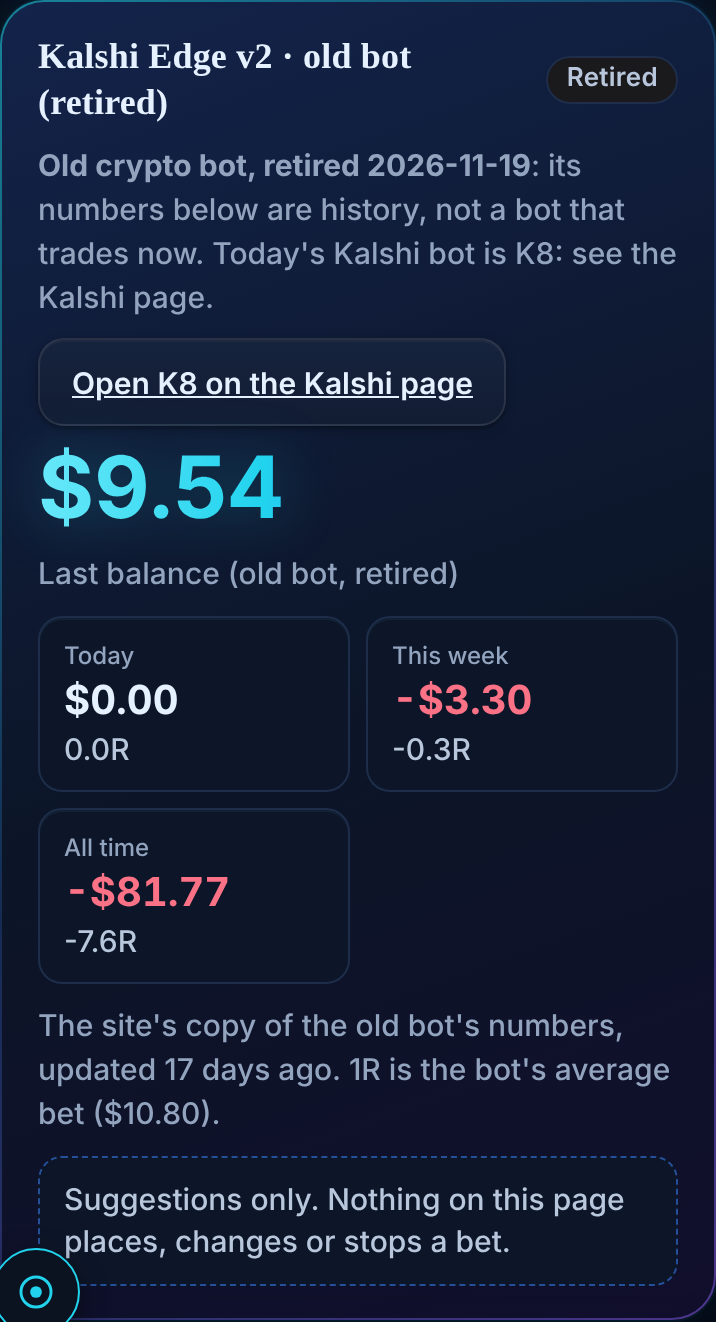
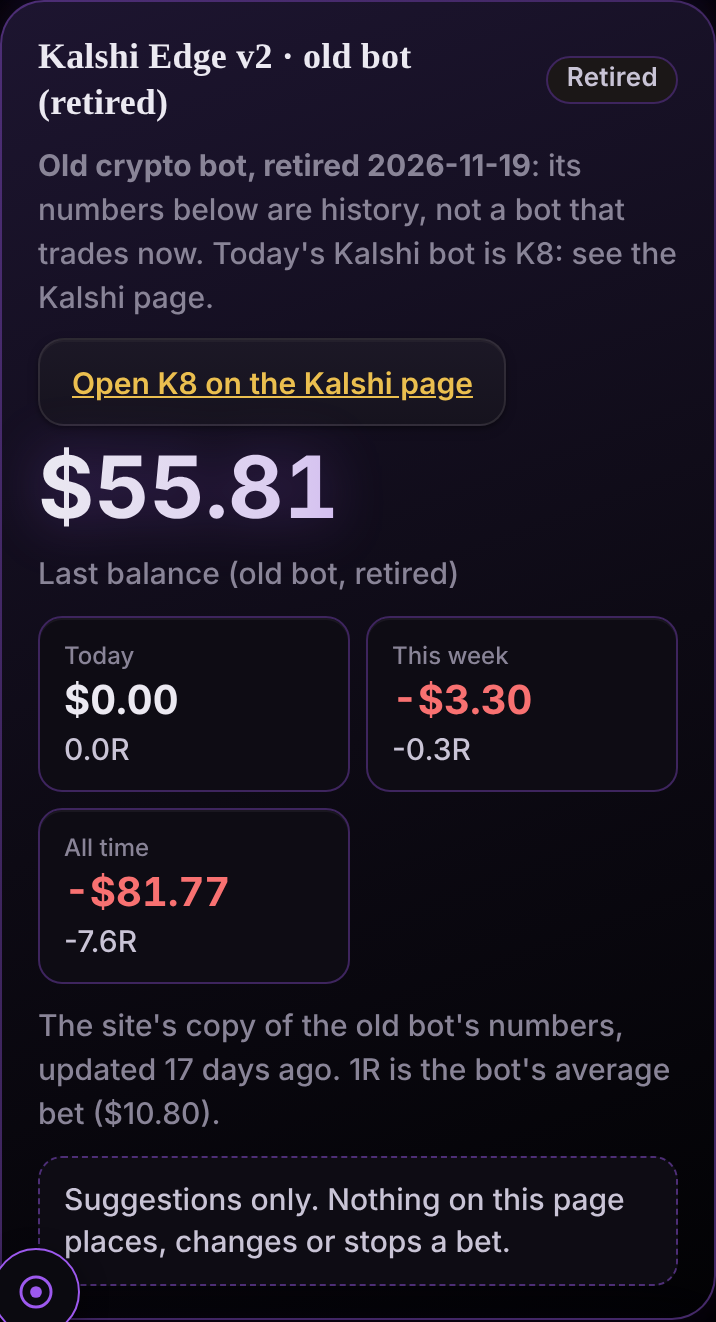
Dionysus FX: OLYMPUS NIGHT look (owner palette: black base, #16131e -> #020204 cards, violet edges #3e255e/#4d2e76 + #9d59ee light, lavender highlights, small gold CTA/active accents, mint win / red loss; no cyan), 3D grid floor + press tilt, hero sheen (motion-ok only), nqfx.js after load + idle th
Claude-Session: https://claude.ai/code/session_01EwJ4kRDzE4hwQDbzL1hJ5v

diff --git a/tools/web_public/dionysus/dionysus.css b/tools/web_public/dionysus/dionysus.css
@@ -104,81 +104,82 @@ main#app header.top .brand p.sub, main#app p#status, main#app #status.note { fon
 main#app .tile span { font-size: .8125rem; }
 main#app .tile span { font-size: .9375rem; }
 
-/* ================================================================================================ TERMINAL look (day-kalshi FX 2026-11-20, owner: "it needs some 3D, some effects")
-   Dionysus only (this sheet is loaded by this page alone; agora.css / olympus.css untouched): NO GOLD. Navy base #070b14 / #0b1220, electric cyan #22d3ee
-   + blue #3b82f6 light, violet #8b5cf6 accents; green #22c55e only for a win, red #f43f5e only for a loss. Cards: a thin cyan -> blue -> violet gradient
-   border + a soft cyan / blue box-shadow; a 3D tilt on press; a still perspective grid under the page. Motion (the hero sheen) only under
+/* ================================================================================================ TERMINAL look, "OLYMPUS NIGHT" (day-kalshi FX 2026-11-20, owner: "it needs some 3D, some effects")
+   Dionysus only (this sheet is loaded by this page alone; agora.css / olympus.css untouched). Black base #000; cards #16131e -> #020204 with a thin
+   violet gradient edge (#3e255e / #462a6a / #4d2e76) and a soft violet #9d59ee light; lavender #dacbf0 highlights; bright gold #f1c14b ONLY for small
+   active / call-to-action / live accents (text gold #ebbf4f); mint #77db89 only for a win, red #ef4444 only for a loss; text #ebe9f1, muted #898497.
+   3D: a still perspective grid under the page and a press tilt on cards. Motion (the hero sheen, today's win pulse) only under
    prefers-reduced-motion: no-preference; the effects themselves (number roll, win sparks) come from olympus/nqfx.js after the first paint. */
 html:root[data-theme="agora"] {
-  --ag-night: #070b14; --ag-panel: #0b1220; --ag-raise: #101a2e; --ag-line: #1e2d4a; --ag-s0: #070b14; --ag-s1: #0b1220; --ag-s2: #0e1729; --ag-s3: #121d33; --ag-s4: #16233d;
-  --ag-line-soft: rgba(103, 232, 249, .08); --ag-line-gold: rgba(34, 211, 238, .38);
-  --ag-text: #e6f1ff; --ag-soft: #b9c7dd; --ag-muted: #93a4bf;
-  --ag-gold: #22d3ee; --ag-gold-hi: #67e8f9; --ag-gold-rgb: 34, 211, 238; --ag-bronze: #3b82f6; --ag-aegean: #3b82f6; --ag-aegean-text: #7dd3fc; --ag-aegean-rgb: 59, 130, 246;
-  --ag-olive: #22c55e; --ag-olive-text: #4ade80; --ag-olive-rgb: 34, 197, 94; --ag-terra: #f43f5e; --ag-terra-text: #fb7185; --ag-terra-rgb: 244, 63, 94;
-  --ag-sun: #a78bfa; --ag-sun-rgb: 139, 92, 246; --ag-on-gold: #070b14;
-  --ag-shadow: 0 8px 24px rgba(2, 6, 18, .55);
-  --dx-cyan: #22d3ee; --dx-blue: #3b82f6; --dx-violet: #8b5cf6; --dx-win: #22c55e; --dx-loss: #f43f5e; --dx-tile: #0d1628;
-  --dx-edge: linear-gradient(135deg, rgba(34, 211, 238, .6), rgba(59, 130, 246, .28) 45%, rgba(139, 92, 246, .55));
-  --dx-light: 0 0 0 1px rgba(34, 211, 238, .05), 0 10px 30px rgba(2, 6, 18, .6), 0 0 22px rgba(34, 211, 238, .10), 0 0 40px rgba(59, 130, 246, .08);
-  --oly-accent: #22d3ee; --oly-accent-rgb: 34, 211, 238;
+  --ag-night: #000000; --ag-panel: #0b0a10; --ag-raise: #16131e; --ag-line: #3e255e; --ag-s0: #000000; --ag-s1: #0b0a10; --ag-s2: #100e16; --ag-s3: #16131e; --ag-s4: #1c1826;
+  --ag-line-soft: rgba(218, 203, 240, .08); --ag-line-gold: rgba(157, 89, 238, .45);
+  --ag-text: #ebe9f1; --ag-soft: #c9c4d6; --ag-muted: #898497;
+  --ag-gold: #9d59ee; --ag-gold-hi: #dacbf0; --ag-gold-rgb: 157, 89, 238; --ag-bronze: #4d2e76; --ag-aegean: #9d59ee; --ag-aegean-text: #dacbf0; --ag-aegean-rgb: 157, 89, 238;
+  --ag-olive: #77db89; --ag-olive-text: #77db89; --ag-olive-rgb: 119, 219, 137; --ag-terra: #ef4444; --ag-terra-text: #f87171; --ag-terra-rgb: 239, 68, 68;
+  --ag-sun: #ebbf4f; --ag-sun-rgb: 241, 193, 75; --ag-on-gold: #000000;
+  --ag-shadow: 0 8px 24px rgba(0, 0, 0, .6);
+  --dx-violet: #9d59ee; --dx-lav: #dacbf0; --dx-gold: #f1c14b; --dx-gold-t: #ebbf4f; --dx-win: #77db89; --dx-loss: #ef4444; --dx-tile: #0e0c14;
+  --dx-card: linear-gradient(180deg, #16131e, #020204);
+  --dx-edge: linear-gradient(135deg, #4d2e76, #3e255e 45%, #462a6a);
+  --dx-light: 0 10px 30px rgba(0, 0, 0, .7), 0 0 22px rgba(157, 89, 238, .14), 0 0 44px rgba(157, 89, 238, .07);
+  --oly-accent: #9d59ee; --oly-accent-rgb: 157, 89, 238;
 }
-html { background: #070b14; }
-html[data-theme="agora"] body { background: radial-gradient(120% 60% at 50% -12%, #13254a 0%, #0b1220 38%, #070b14 72%) fixed, #070b14; }
-/* the 3D floor: a still perspective grid of faint cyan lines fading into the dark (one fixed layer, painted once, never animated) */
+html { background: #000000; }
+html[data-theme="agora"] body { background: radial-gradient(120% 55% at 50% -12%, #1a1228 0%, #07050b 42%, #000000 72%) fixed, #000000; }
+/* the 3D floor: a still perspective grid of faint violet lines fading into the black (one fixed layer, painted once, never animated) */
 body::before { content: ""; position: fixed; left: -50%; right: -50%; bottom: 0; height: 62vh; z-index: 0; pointer-events: none;
-  background: linear-gradient(rgba(34, 211, 238, .10) 1px, transparent 1px) 0 0 / 56px 56px, linear-gradient(90deg, rgba(59, 130, 246, .10) 1px, transparent 1px) 0 0 / 56px 56px;
+  background: linear-gradient(rgba(157, 89, 238, .13) 1px, transparent 1px) 0 0 / 56px 56px, linear-gradient(90deg, rgba(157, 89, 238, .10) 1px, transparent 1px) 0 0 / 56px 56px;
   transform: perspective(420px) rotateX(62deg); transform-origin: 50% 100%;
   -webkit-mask-image: linear-gradient(to top, rgba(0, 0, 0, .9), transparent 78%); mask-image: linear-gradient(to top, rgba(0, 0, 0, .9), transparent 78%); }
 html[data-oly-lite="1"] body::before { display: none; }
-/* cards: navy glass, a thin gradient edge (padding-box / border-box layers, no extra node), cyan / blue light */
-main#app .ag-card.card { border: 1px solid transparent; background: linear-gradient(180deg, #101a2e, #0b1220) padding-box, var(--dx-edge) border-box; box-shadow: var(--dx-light);
+/* cards: the night gradient, a thin violet edge (padding-box / border-box layers, no extra node), a soft violet light */
+main#app .ag-card.card { border: 1px solid transparent; background: var(--dx-card) padding-box, var(--dx-edge) border-box; box-shadow: var(--dx-light);
   transition: transform .18s ease-out, box-shadow .18s ease-out; }
-main#app .ag-card.card:active { transform: perspective(900px) rotateX(2.2deg) translateZ(-6px); box-shadow: var(--dx-light), 0 0 30px rgba(34, 211, 238, .16); }
-main#app .ag-card.card.k8 { background: linear-gradient(180deg, #0f1c33, #0a1222) padding-box, linear-gradient(135deg, rgba(34, 211, 238, .8), rgba(59, 130, 246, .4) 50%, rgba(139, 92, 246, .7)) border-box;
-  box-shadow: var(--dx-light), 0 0 34px rgba(34, 211, 238, .14); }
-main#app .ag-card.card.hero { overflow: hidden; background: linear-gradient(160deg, #13234a 0%, #0c1527 55%, #110f2c 100%) padding-box, var(--dx-edge) border-box; }
-#guardCard[data-level="bad"] { background: linear-gradient(180deg, #101a2e, #0b1220) padding-box, linear-gradient(135deg, rgba(244, 63, 94, .6), rgba(139, 92, 246, .4)) border-box !important; }
-#guardCard[data-level="warn"] { background: linear-gradient(180deg, #101a2e, #0b1220) padding-box, linear-gradient(135deg, rgba(139, 92, 246, .7), rgba(59, 130, 246, .4)) border-box !important; }
-#guardCard[data-level="ok"] { background: linear-gradient(180deg, #101a2e, #0b1220) padding-box, linear-gradient(135deg, rgba(34, 197, 94, .55), rgba(34, 211, 238, .4)) border-box !important; }
-/* the hero sheen: a soft diagonal band of light; it sweeps only when motion is welcome (transform only: compositor, no layout) */
+main#app .ag-card.card:active { transform: perspective(900px) rotateX(2.2deg) translateZ(-6px); box-shadow: var(--dx-light), 0 0 30px rgba(157, 89, 238, .22); }
+main#app .ag-card.card.k8 { background: var(--dx-card) padding-box, linear-gradient(135deg, #9d59ee, #4d2e76 50%, #462a6a) border-box; box-shadow: var(--dx-light), 0 0 34px rgba(157, 89, 238, .2); }
+main#app .ag-card.card.hero { overflow: hidden; background: linear-gradient(160deg, #1d1530 0%, #0d0a14 55%, #020204 100%) padding-box, var(--dx-edge) border-box; }
+#guardCard[data-level="bad"] { background: var(--dx-card) padding-box, linear-gradient(135deg, rgba(239, 68, 68, .6), #3e255e) border-box !important; }
+#guardCard[data-level="warn"] { background: var(--dx-card) padding-box, linear-gradient(135deg, #9d59ee, #3e255e) border-box !important; }
+#guardCard[data-level="ok"] { background: var(--dx-card) padding-box, linear-gradient(135deg, rgba(119, 219, 137, .55), #3e255e) border-box !important; }
+/* the hero sheen: a soft diagonal band of lavender light; it sweeps only when motion is welcome (transform only: compositor, no layout) */
 main#app .card.hero::after { content: ""; position: absolute; inset: -40% auto -40% -60%; width: 45%; pointer-events: none; z-index: 0;
-  background: linear-gradient(100deg, transparent, rgba(103, 232, 249, .09) 40%, rgba(139, 92, 246, .10) 60%, transparent); transform: translateX(0) skewX(-12deg); }
+  background: linear-gradient(100deg, transparent, rgba(218, 203, 240, .07) 40%, rgba(157, 89, 238, .10) 60%, transparent); transform: translateX(0) skewX(-12deg); }
 main#app .card.hero > * { position: relative; z-index: 1; }
 @media (prefers-reduced-motion: no-preference) {
   main#app .card.hero::after { animation: dx-sheen 7s ease-in-out 1.2s infinite; }
   @keyframes dx-sheen { 0% { transform: translateX(0) skewX(-12deg); } 55%, 100% { transform: translateX(420%) skewX(-12deg); } }
   main#app .k8wl i.w.today { animation: dx-pulse 2.4s ease-in-out infinite; }
-  @keyframes dx-pulse { 0%, 100% { box-shadow: 0 0 0 0 rgba(34, 197, 94, .0); } 50% { box-shadow: 0 0 10px 2px rgba(34, 197, 94, .45); } }
+  @keyframes dx-pulse { 0%, 100% { box-shadow: 0 0 0 0 rgba(119, 219, 137, 0); } 50% { box-shadow: 0 0 10px 2px rgba(119, 219, 137, .45); } }
 }
 @media (prefers-reduced-motion: reduce) { main#app .ag-card.card, main#app .ag-card.card:active { transition: none; transform: none; } }
 html[data-oly-lite="1"] main#app .card.hero::after { display: none; }
-/* the numbers: cyan -> blue ink, tabular, a little light */
-main#app .big { background: linear-gradient(90deg, #67e8f9, #22d3ee 35%, #3b82f6 80%, #8b5cf6); -webkit-background-clip: text; background-clip: text; color: transparent; font-variant-numeric: tabular-nums;
-  filter: drop-shadow(0 0 14px rgba(34, 211, 238, .28)); }
-.ag-title { color: #e6f1ff; } .ag-title::after { background: linear-gradient(90deg, #22d3ee, #3b82f6 60%, rgba(139, 92, 246, 0)); width: 64px; }
-.card h2 { color: #e6f1ff; letter-spacing: .01em; }
-.brand img { box-shadow: 0 0 0 1px rgba(34, 211, 238, .35), 0 0 18px rgba(34, 211, 238, .25); }
-/* surfaces that were warm brown: navy tiles with a faint cyan edge */
-.tile, .plain li, .banner, .pill { background: var(--dx-tile); border-color: #1e2d4a; }
-.tile { box-shadow: inset 0 1px 0 rgba(103, 232, 249, .06); }
+/* the numbers: lavender -> violet ink, tabular, a little light */
+main#app .big { background: linear-gradient(90deg, #ebe9f1, #dacbf0 40%, #9d59ee); -webkit-background-clip: text; background-clip: text; color: transparent; font-variant-numeric: tabular-nums;
+  filter: drop-shadow(0 0 14px rgba(157, 89, 238, .35)); }
+.ag-title { color: #ebe9f1; } .ag-title::after { background: linear-gradient(90deg, #f1c14b, #9d59ee 45%, rgba(157, 89, 238, 0)); width: 64px; }
+.card h2 { color: #ebe9f1; letter-spacing: .01em; }
+.brand img { box-shadow: 0 0 0 1px #4d2e76, 0 0 18px rgba(157, 89, 238, .3); }
+/* surfaces that were warm brown: night tiles with a faint violet edge */
+.tile, .plain li, .banner, .pill { background: var(--dx-tile); border-color: #3e255e; }
+.tile { box-shadow: inset 0 1px 0 rgba(218, 203, 240, .06); }
 .dots li { background: none; }
-.banner { border: 1px dashed rgba(59, 130, 246, .55); }
-.tag.demo { color: #070b14; background: #8b5cf6; }
-.pill.ok { color: #4ade80; border-color: rgba(34, 197, 94, .45); } .pill.bad { color: #fb7185; border-color: rgba(244, 63, 94, .45); }
-.pill.warn { color: #c4b5fd; border-color: rgba(139, 92, 246, .55); } .pill.info { color: #7dd3fc; border-color: rgba(59, 130, 246, .5); }
-.btn { background: #0f1a30; border-color: rgba(34, 211, 238, .35); color: #e6f1ff; box-shadow: 0 0 14px rgba(34, 211, 238, .08); }
-.btn[aria-pressed="true"], .btn.on, .ag-chip[aria-pressed="true"] { border-color: #22d3ee; color: #67e8f9; background: #0c2236; box-shadow: 0 0 16px rgba(34, 211, 238, .22); }
-:focus-visible { outline-color: #22d3ee; }
-/* K8: the W / L chips are little 3D keys (top light, bottom shade); today's win glows green */
-.k8wl i { color: #070b14; background: linear-gradient(180deg, #fb7185, #e11d48); box-shadow: inset 0 1px 0 rgba(255, 255, 255, .25), 0 2px 0 #7f1d3a; }
-.k8wl i.w { background: linear-gradient(180deg, #4ade80, #16a34a); box-shadow: inset 0 1px 0 rgba(255, 255, 255, .3), 0 2px 0 #14532d; }
-.k8leg { border-top-color: rgba(34, 211, 238, .12); }
+.banner { border: 1px dashed #4d2e76; }
+.tag.demo { color: #000000; background: #f1c14b; }
+.pill.ok { color: #77db89; border-color: rgba(119, 219, 137, .45); } .pill.bad { color: #f87171; border-color: rgba(239, 68, 68, .45); }
+.pill.warn { color: #ebbf4f; border-color: rgba(241, 193, 75, .45); } .pill.info { color: #dacbf0; border-color: #4d2e76; }
+.btn { background: #120f19; border-color: #462a6a; color: #ebe9f1; box-shadow: 0 0 14px rgba(157, 89, 238, .1); }
+.lnk .btn { border-color: rgba(241, 193, 75, .55); color: #ebbf4f; }   /* the one call to action per card: a small gold accent */
+.btn[aria-pressed="true"], .btn.on, .ag-chip[aria-pressed="true"] { border-color: #f1c14b; color: #ebbf4f; background: #1a1424; box-shadow: 0 0 16px rgba(157, 89, 238, .25); }
+:focus-visible { outline-color: #9d59ee; }
+/* K8: the W / L chips are little 3D keys (top light, bottom shade); today's win glows mint */
+.k8wl i { color: #000000; background: linear-gradient(180deg, #f87171, #dc2626); box-shadow: inset 0 1px 0 rgba(255, 255, 255, .25), 0 2px 0 #7f1d1d; }
+.k8wl i.w { background: linear-gradient(180deg, #9be8a8, #77db89 55%, #4fb866); box-shadow: inset 0 1px 0 rgba(255, 255, 255, .35), 0 2px 0 #2f6b3b; }
+.k8leg { border-top-color: rgba(157, 89, 238, .2); }
 .k8pool b { display: inline-block; min-width: 3.4ch; text-align: right; font-variant-numeric: tabular-nums; }
-.k8pool b.ok { color: #4ade80; } .k8pool b.watch { color: #c4b5fd; } .k8pool b.off { color: #fb7185; }
-.ftab tr.k8 td { color: #67e8f9; } .ftab th, .ftab td { border-bottom-color: #1e2d4a; }
-.sblock.watch h3 { color: #c4b5fd; }
-/* the shared header's "Go to" button and the page icon in the same navy / cyan (this page only) */
-html[data-theme="agora"] .gn-go { background: rgba(11, 18, 32, .86); border-color: rgba(34, 211, 238, .35); }
-.brand img { filter: hue-rotate(180deg) saturate(1.2); }
+.k8pool b.ok { color: #77db89; } .k8pool b.watch { color: #ebbf4f; } .k8pool b.off { color: #f87171; }
+.ftab tr.k8 td { color: #ebbf4f; } .ftab th, .ftab td { border-bottom-color: #3e255e; }
+.sblock.watch h3 { color: #ebbf4f; }
+/* the shared header's "Go to" button and the page icon in the same night / violet (this page only) */
+html[data-theme="agora"] .gn-go { background: rgba(10, 8, 14, .88); border-color: #462a6a; }
 /* found on the way (2026-11-20): framed in Jarvis, agora.css's ask-button rule (body.oly-has-ask #app: 72 px) beat the 176 px seat, so the last links sat under the orb */
 html.framed body.oly-has-ask main#app { padding-bottom: calc(176px + var(--sb)); }

diff --git a/tools/web_public/dionysus/dionysus.js b/tools/web_public/dionysus/dionysus.js
@@ -189,12 +189,12 @@ async function boot() {
   fxLater();
 }
 // ------------------------------------------------------------------------------------------------ FX (day-kalshi 2026-11-20, owner: "it needs some 3D, some effects")
-// olympus/nqfx.js (the NQ effects kit) is added only AFTER the first paint: after load + idle, so the page paints exactly as before. Terminal colours
-// (no gold), the balance and K8's pool numbers roll up (the real text is already written and comes back when the roll ends), and a K8 leg whose last
+// olympus/nqfx.js (the NQ effects kit) is added only AFTER the first paint: after load + idle, so the page paints exactly as before. OLYMPUS NIGHT colours
+// (black, violet), the balance and K8's pool numbers roll up (the real text is already written and comes back when the roll ends), and a K8 leg whose last
 // result is a win from today gets the green sparks once per page view. Reduced motion / FX off: the kit shows the final state still. No kit = nothing.
 const FX_SRC = '../olympus/nqfx.js?v=n4';
-const FX_COLORS = { base: '#070b14', cyan: '#22d3ee', cyanHi: '#67e8f9', blue: '#3b82f6', violet: '#8b5cf6', win: '#22c55e', loss: '#f43f5e', steel: '#9aa4b2' };
-const FX = { started: false, won: false, loaded: null };
+const FX_COLORS = { base: '#000000', cyan: '#9d59ee', cyanHi: '#dacbf0', blue: '#4d2e76', violet: '#9d59ee', win: '#77db89', loss: '#ef4444' };   // OLYMPUS NIGHT (owner 2026-11-20)
+const FX = { started: false, won: false, loaded: null, done: false, busyUntil: 0 };   // done + busyUntil: the test hook waits for the rolls to land
 function fxScript() {
   if (FX.loaded) return FX.loaded;
   FX.loaded = new Promise((res) => {
@@ -210,17 +210,18 @@ async function runFx() {
   try { if (!(await NQ.ready())) return; } catch (_) { return; }
   try { NQ.theme(FX_COLORS); } catch (_) { /* default palette */ }
   // a number rolls once, when it first comes into view (an off-screen roll would only sit half-way: the kit's loop sleeps off screen)
-  const go = (el, to) => { const t = el.textContent; try { NQ.roll(el, { to, duration: 1.1 }); } catch (_) { el.textContent = t; } };
+  const go = (el, to) => { const t = el.textContent; FX.busyUntil = Math.max(FX.busyUntil, performance.now() + 1600); try { NQ.roll(el, { to, duration: 1.1 }); } catch (_) { el.textContent = t; } };
   const io = typeof IntersectionObserver === 'function' ? new IntersectionObserver((es) => { for (const e of es) if (e.isIntersecting) { io.unobserve(e.target); go(e.target, +e.target.dataset.to); } }, { threshold: 0.9 }) : null;
   const roll = (el, to) => { if (!el || !Number.isFinite(to)) return; if (io) { el.dataset.to = String(to); io.observe(el); } else go(el, to); };
   if (S.book && !$('heroCard').hidden) roll($('bal'), S.book.balance > 0 ? S.book.balance : NaN);
   for (const b of $('k8Pool').querySelectorAll('b')) { const n = parseFloat(b.textContent); if (Number.isFinite(n)) roll(b, n); }
   const leg = $('k8Legs').querySelector('li[data-win="today"]');
   if (leg && !FX.won) { FX.won = true; try { NQ.win(leg, { usd: +leg.dataset.usd || 0, bigAt: 1e9, text: 'K8 won today, 1 contract' }); } catch (_) { /* no sparks */ } }
+  await new Promise((r) => requestAnimationFrame(() => requestAnimationFrame(r))); FX.done = true;
 }
 function fxLater() {                        // after load + idle: never on the first paint
   const go = () => { const idle = window.requestIdleCallback || ((f) => setTimeout(f, 300)); idle(() => { runFx(); }, { timeout: 2500 }); };
   if (document.readyState === 'complete') go(); else window.addEventListener('load', go, { once: true });
 }
-window.DIONYSUS = { S, C, ready: () => S.ready, render, fx: () => FX };
+window.DIONYSUS = { S, C, ready: () => S.ready, render, fx: () => FX, settled: () => !FX.started || (FX.done && performance.now() > FX.busyUntil) };
 boot().catch(() => { say(`${offWord()}Dionysus could not show the numbers right now. Try again later.`); S.ready = true; try { if (O && O.ready) O.ready(); } catch (_) { /* nothing */ } });

diff --git a/tools/web_public/dionysus/index.html b/tools/web_public/dionysus/index.html
@@ -5,7 +5,7 @@
 <meta name="viewport" content="width=device-width, initial-scale=1, viewport-fit=cover">
 <title>Dionysus</title>
 <meta name="description" content="OLYMPUS DIONYSUS: the Kalshi desk. The Kalshi bot's balance and results, the guard, a what-if of past bets and the scan of where the money is. Suggestions only.">
-<meta name="theme-color" content="#070b14">
+<meta name="theme-color" content="#000000">
 <meta name="mobile-web-app-capable" content="yes">
 <meta name="apple-mobile-web-app-status-bar-style" content="black-translucent">
 <meta name="apple-mobile-web-app-title" content="Dionysus">
@@ -25,7 +25,7 @@
 <script src="../olympus/intro-app.js?v=i11" defer></script>
 <script src="../olympus/a11y.js" defer></script>
 <script src="../olympus/agora-ui.js?v=6" defer></script>
-<script>(function () { var r = document.documentElement.style; r.setProperty('--oly-accent', '#22d3ee'); r.setProperty('--oly-accent-rgb', '34, 211, 238'); })();</script>
+<script>(function () { var r = document.documentElement.style; r.setProperty('--oly-accent', '#9d59ee'); r.setProperty('--oly-accent-rgb', '157, 89, 238'); })();</script>
 <link rel="stylesheet" href="dionysus.css?v=a8">
 <link rel="stylesheet" href="../olympus/a11y.css?v=a3"><!-- with a11y.js: in the head so the text never jumps when it arrives (CLS) -->
 </head>

diff --git a/tests/test_dionysus_page.py b/tests/test_dionysus_page.py
@@ -117,6 +117,17 @@ def feed_json(balance=321.5):
                        "days": [["2026-11-01", 3.0], ["2026-11-02", 4.5], ["2026-11-03", -1.0]], "stats": {"trades": 100, "staked": 1000.0}})
 
 
+# FX (day-kalshi 2026-11-20): the balance / K8 numbers roll up once after load + idle (olympus/nqfx.js); read the numbers once they have landed
+SETTLED = "() => !window.DIONYSUS.fx || (window.DIONYSUS.fx().started ? window.DIONYSUS.settled() : document.readyState === 'complete' && performance.now() > 4000)"
+
+
+def settle(p):
+    try:
+        p.wait_for_function(SETTLED, timeout=20000)
+    except Exception:  # noqa: BLE001 - the numbers are then read as they are (the check says what it saw)
+        pass
+
+
 def test_page():
     try:
         import playwright  # noqa: F401
@@ -128,6 +139,7 @@ def test_page():
         with AK.browser() as br:
             ctx, p, errs, seen, off = AK.page(br, origin)
             AK.open_app(p, origin, APP, "?demo=1&at=2026-11-05T12:00:00Z")
+            settle(p)
             d = p.evaluate("""() => ({ demo: !document.querySelector('#demo').hidden, name: document.querySelector('#botName').textContent, pill: document.querySelector('#botPill').textContent, bal: document.querySelector('#bal').textContent, tiles: document.querySelector('#heroTiles').innerText, src: document.querySelector('#srcNote').textContent,
               guard: document.querySelector('#guardTitle').textContent, gl: document.querySelector('#guardCard').dataset.level, open: document.querySelectorAll('#open li').length, recent: document.querySelectorAll('#recent li').length, r0: document.querySelector('#recent li b').textContent,
               chips: [...document.querySelectorAll('#sets button')].map((b) => b.textContent), on: document.querySelector('#sets [aria-pressed=true]').textContent, wiText: document.querySelector('#wiText').textContent, scan: document.querySelector('#scan').innerText,
@@ -149,6 +161,7 @@ def test_page():
             # ---- no kalshi.json on the site (404 here): the site's kalshicity mirror takes over, labelled
             ctx, p, errs, seen, off = AK.page(br, origin)
             AK.open_app(p, origin, APP, "?at=2026-11-05T12:00:00Z")
+            settle(p)
             s = p.evaluate("""() => ({ demo: !document.querySelector('#demo').hidden, pill: document.querySelector('#botPill').textContent, bal: document.querySelector('#bal').textContent, src: document.querySelector('#srcNote').textContent, guard: document.querySelector('#guardTitle').textContent,
               gl: document.querySelector('#guardCard').dataset.level, open: document.querySelector('#open').textContent, wi: document.querySelector('#sets [aria-pressed=true]').textContent, scan: document.querySelector('#scan').innerText.includes('95–97¢ bets') })""")
             check("c. the feed was asked on the site (../kalshi.json, absent here), so the kalshicity copy is shown: no DEMO chip, $55.81, 'Retired' (the old crypto bot, 2026-11-19: never 'Paused' / 'Running'), 'the site's copy', the guard says the bot is resting, the real what-if (A) and scan",
@@ -157,6 +170,7 @@ def test_page():
             # ---- the live feed answers (mocked)
             ctx, p, errs, seen, off = AK.page(br, origin, mock={"/kalshi.json": feed_json()})
             AK.open_app(p, origin, APP, "?at=2026-11-05T12:00:00Z")
+            settle(p)
             l = p.evaluate("""() => ({ demo: !document.querySelector('#demo').hidden, pill: document.querySelector('#botPill').textContent, bal: document.querySelector('#bal').textContent, src: document.querySelector('#srcNote').textContent, tiles: document.querySelector('#heroTiles').innerText,
               open: document.querySelector('#open').innerText, recent: document.querySelector('#recent').innerText, guard: document.querySelector('#guardTitle').textContent })""")
             check("c. the old bot's feed (mocked, even one saying 'running'): no DEMO chip, 'Retired', $321.50, 'The old bot's last feed', today +$2.00 (+0.2R) with 1R = $10.00, the open bet risks $4.80, the settled bet with its R, the guard from the site's regime",

diff --git a/tests/test_dionysus_merge.py b/tests/test_dionysus_merge.py
@@ -54,11 +54,13 @@ def part_static():
     check("a. a junk file hides only its own card (try / hide per card)", "$(id).hidden = true" in js)
     check("a. the old folders are still there (sibyl/, kalshicity/ index pages)", os.path.isfile(os.path.join(WEB, "sibyl", "index.html")) and os.path.isfile(os.path.join(WEB, "kalshicity", "index.html")))
     fx_tag = re.search(r'<script[^>]+nqfx\.js', html)
-    check("a. FX (owner 2026-11-20 'some 3D, some effects'): the kit olympus/nqfx.js?v=n4 is added by dionysus.js after load + idle (no tag in the HTML, so the first paint is unchanged), themed navy / cyan / blue / violet",
-          not fx_tag and "const FX_SRC = '../olympus/nqfx.js?v=n4';" in js and "requestIdleCallback" in js and "NQ.theme(FX_COLORS)" in js and "'#22d3ee'" in js and "NQ.roll(" in js and "NQ.win(" in js)
-    golds = re.findall(r"#(?:c8a24a|e0b060|dcbd6e|9c6b3c|b77a8a)\b", css.split("TERMINAL look")[1] if "TERMINAL look" in css else css, re.I)
-    check("a. FX look: no gold in the terminal block; the gold / bronze / sun tokens are re-pointed to cyan / blue / violet for this page; the html accent is cyan, theme-color navy",
-          "TERMINAL look" in css and not golds and "--ag-gold: #22d3ee" in css and "--ag-sun: #a78bfa" in css and "--ag-bronze: #3b82f6" in css and "'--oly-accent', '#22d3ee'" in html and 'content="#070b14"' in html, golds)
+    check("a. FX (owner 2026-11-20 'some 3D, some effects'): the kit olympus/nqfx.js?v=n4 is added by dionysus.js after load + idle (no tag in the HTML, so the first paint is unchanged), themed OLYMPUS NIGHT (black, violet, lavender; owner 2026-11-20)",
+          not fx_tag and "const FX_SRC = '../olympus/nqfx.js?v=n4';" in js and "requestIdleCallback" in js and "NQ.theme(FX_COLORS)" in js and "cyan: '#9d59ee'" in js and "#22d3ee" not in js and "NQ.roll(" in js and "NQ.win(" in js)
+    night = css.split("TERMINAL look")[1] if "TERMINAL look" in css else ""
+    cyan = re.findall(r"#(?:22d3ee|67e8f9|3b82f6|070b14|0b1220)\b|34, 211, 238|59, 130, 246", night, re.I)
+    check("a. OLYMPUS NIGHT look (owner 2026-11-20): no cyan / navy in the page's block; black base, violet edges (#3e255e / #4d2e76) and light #9d59ee, mint win, red loss; the html accent is violet, theme-color black",
+          "TERMINAL look" in night + css and not cyan and "--ag-night: #000000" in night and "#3e255e" in night and "#4d2e76" in night and "rgba(157, 89, 238" in night and "--ag-olive: #77db89" in night
+          and "--ag-terra: #ef4444" in night and "'--oly-accent', '#9d59ee'" in html and 'content="#000000"' in html, cyan)
     motion = css.split("TERMINAL look")[1] if "TERMINAL look" in css else ""
     anims = [m.start() for m in re.finditer(r"animation:", motion)]
     np_ = motion.find("@media (prefers-reduced-motion: no-preference)")
